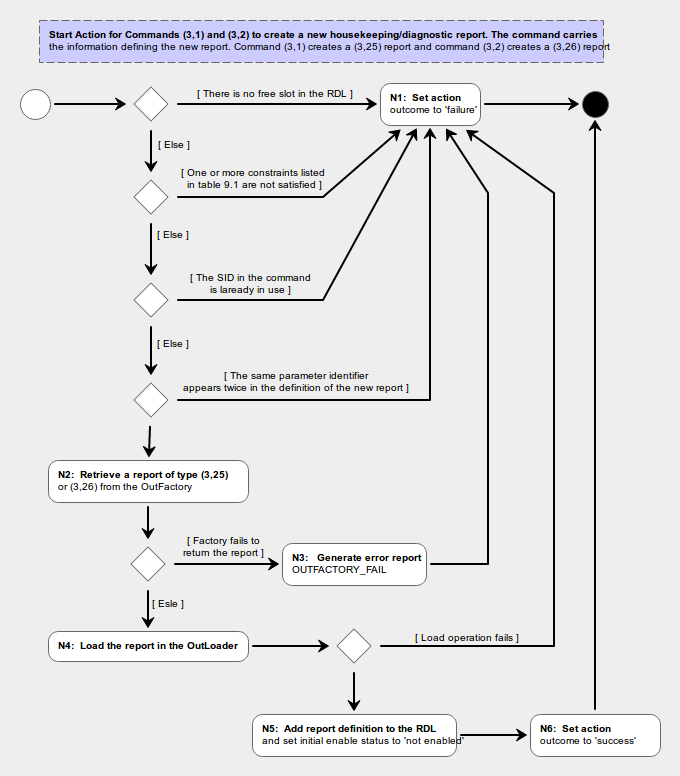
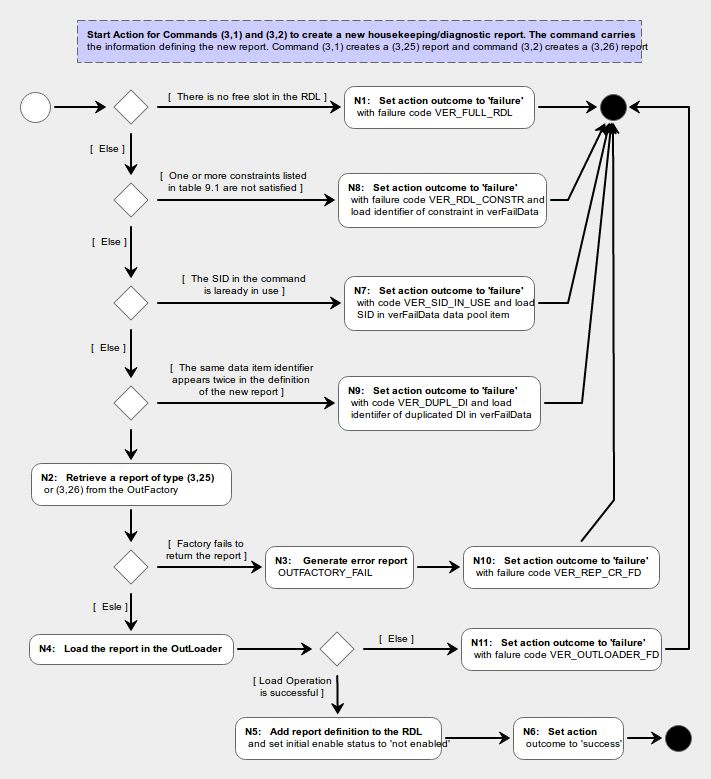
On-going definition of service 3

diff --git a/doc/pus/PusExtension.tex b/doc/pus/PusExtension.tex
@@ -970,7 +970,7 @@ The PUS defines the content of the service 1 reports in section 8.1 of AD-3. The
 \item For (1,5) reports only: the identifier of the step which failed its progress check
 \end{fw_itemize}
 
-The Verification Failure Data is stored in data pool item \texttt{verFailData}. Its purpose is to provide additional information about the nature of the failure being reported by the failure report. This data item has a fixed size but its syntactical type is command-specific. Its value is set by the entity which performs the verification check. If no failure data are defined for a given verification check, then \texttt{verFailData} must be set to zero. 
+The Verification Failure Data is stored in data pool item \texttt{verFailData}. Its purpose is to provide additional information about the nature of the failure being reported by the failure report. This data item has a fixed size but its syntactical type is command-specific. Its value is set by the entity which performs the verification check. If no failure data are defined for a given verification check, then the value of \texttt{verFailData} is "don't care". 
 
 To illustrate, consider the case of a command (3,5) which enables a housekeeping report. This command carries the Structure Identifier (SID) of the report to be enabled. The Start Action of this command checks the legality of the SID (see section TBD). If the SID is found to be illegal, the command is rejected with a (1,4) report and the illegal SID value is used as Verification Failure Data. The Start Action of the (1,4) command loads the illegal SID into data pool item \texttt{verFailData} and the Command Verification Failure Procedure which creates the (1,4) report takes the Verification Failure Data from \texttt{verFailData}.
 
@@ -1064,7 +1064,7 @@ At any given time, an application generates several kinds of housekeeping/diagno
 
 Since no distinction is made between housekeeping and diagnostic reports, the SID must be unique within the set of all housekeeping/diagnostic reports (i.e. it is not possible for a housekeeping report and a diagnostic report to have the same SID).
 
-Housekeeping/diagnostic reports are generated periodically. The \textit{Collection Period} of a housekeeping/diagnostic report is the period with which the report is generated. The Collection Period is expressed as an integer multiple of a minimum period HK\_COLLECT\_PER which is an application constant. A value of zero for the collection period means that the report is only generated once.
+Housekeeping/diagnostic reports are may be generated periodically or in "one-shot" mode. For periodic reports, the \textit{Collection Period} is the period with which the report is generated. The Collection Period is expressed as an integer multiple of a minimum period HK\_COLLECT\_PER which is an application constant. 
 
 A data item in a housekeeping/diagnostic report is either \textit{simply commutated} or \textit{super-commutated}. The value of a simply-commutated data item appears only once in the housekeeping/diagnostic report and it represents the value of the data item at the time the report is generated.
 
@@ -1097,7 +1097,7 @@ The sampling buffer mentioned in the last row in table \ref{tab:repDefDataStruct
 \endhead
 \texttt{sid} & Structure identifier (SID) & Integer in range: 1..HK\_MAX\_SID \\
 \hline
-\texttt{period} & Collection period in units of HK\_COLLECT\_PER & Non-negative integer (a value of zero indicates a "one-shot" report) \\
+\texttt{period} & Collection period in units of HK\_COLLECT\_PER & Positive integer \\
 \hline
 \texttt{cycleCnt} & Cycle counter (see definition of service 3 reports and commands) & Integer in the range: 0..(\texttt{period}-1) \\
 \hline
@@ -1176,8 +1176,16 @@ HkDelete & Commands (3,3) and (3,4) to delete a housekeeping/diagnostic report  
 \hline
 HkEnable & Commands (3,5) and TBD to enable a housekeeping/diagnostic report  \\
 \hline
-HkDisable & Commands (3,5) and TBD to disable a housekeeping/diagnostic report  \\
+HkDisable & Commands (3,6) and TBD to disable a housekeeping/diagnostic report  \\
 \hline
+
+HkReport & Reports (3,25) and (3,26) to carry a periodic housekeeping/diagnostic report  \\
+\hline
+HkRepOneShot & Reports (3,25) and (3,26) to carry a one-shot housekeeping/diagnostic report generated in response to a (3,27) command \\
+\hline
+
+
+
 \end{longtable}  
 
 
@@ -1206,23 +1214,35 @@ The service 3 configuration is defined by the content of the Report Definition L
 
 %---------------------------------------------------------------------------------
 \subsection{Service 3 Adaptation Points}\label{sec:serv3AP}
-The test service consists of two commands and two reports. Commands are defined by the way they close the adaptation points of the InCommand component and reports are defined by the way they close the adaptation points of the OutComponent component. Four tables are accordingly shown below which define the close-out for the adaptation points of the two commands and two reports of service 17.
+The housekeeping service consists of several commands and reports. Commands are defined by the way they close the adaptation points of the InCommand component and reports are defined by the way they close the adaptation points of the OutComponent component. The tables below define the close-out for the adaptation points of the service 3 commands and reports.
 
-The following considerations apply to the service 17 commands and reports:
+The following considerations apply to the service 3 commands and reports:
 
 \begin{fw_itemize}
-\item The service 17 commands execute in 'one-shot' mode and therefore do not generate progress reports.
-\item Service 17 reports are generated unconditionally and hence their enable check always returns 'report enabled'.
-\item Service 17 reports are generated as soon as the condition which triggered them occur and hence their ready check always returns 'ready'
-\item Service 17 reports are 'one-off' reports and hence their repeat check always returns 'no repeat'
+\item The service 3 commands execute in 'one-shot' mode and therefore do not generate progress reports.
+\item TBD
 \end{fw_itemize}
 
-\begin{cr_ap}{S3-1}{Adaptation Points for HkCreate Command (3,1) and (3,2)}
+\begin{cr_ap}{S3-1}{Adaptation Points for HkCreate Command}
 \end{cr_ap}
 
-\begin{cr_ap}{S3-3}{Adaptation Points for HkDelete Command (3,3) and (3,4)}
+\begin{cr_ap}{S3-3}{Adaptation Points for HkDelete Command}
 \end{cr_ap}
 
+\begin{cr_ap}{S3-5}{Adaptation Points for HkEnable Command}
+\end{cr_ap}
+
+\begin{cr_ap}{S3-6}{Adaptation Points for HkDisable Command}
+\end{cr_ap}
+
+
+\begin{cr_ap}{S3-25}{Adaptation Points for HkReport Report}
+\end{cr_ap}
+
+\begin{cr_ap}{S3-25s}{Adaptation Points for HkRepOneShot Report}
+\end{cr_ap}
+
+Run the procedure Start Action of HkDelete Command of figure \ref{fig:Cmd3s3Start}
 
 
 %---------------------------------------------------------------------------------
@@ -1231,7 +1251,6 @@ The table in this section lists requirements for the test service.
 
 \begin{cr_req}{S3}{Requirements for Service 3 (Housekeeping Service)}
 \end{cr_req}
-
 
 \begin{figure}[H]
  \centering
@@ -1244,9 +1263,15 @@ The table in this section lists requirements for the test service.
  \centering
  \includegraphics[scale=0.55,keepaspectratio=true]{CrPsCmd3s3Start.png}
  \caption{Start Action of Command HkDelete}
- \label{fig:Cmd3s1Start}
+ \label{fig:Cmd3s3Start}
 \end{figure}
 
+\begin{figure}[H]
+ \centering
+ \includegraphics[scale=0.55,keepaspectratio=true]{CrPsCmd3SidStart.png}
+ \caption{Start Action of Multi-SID Command}
+ \label{fig:Cmd3SidStart}
+\end{figure}
 
 
 %=============================================================================================
